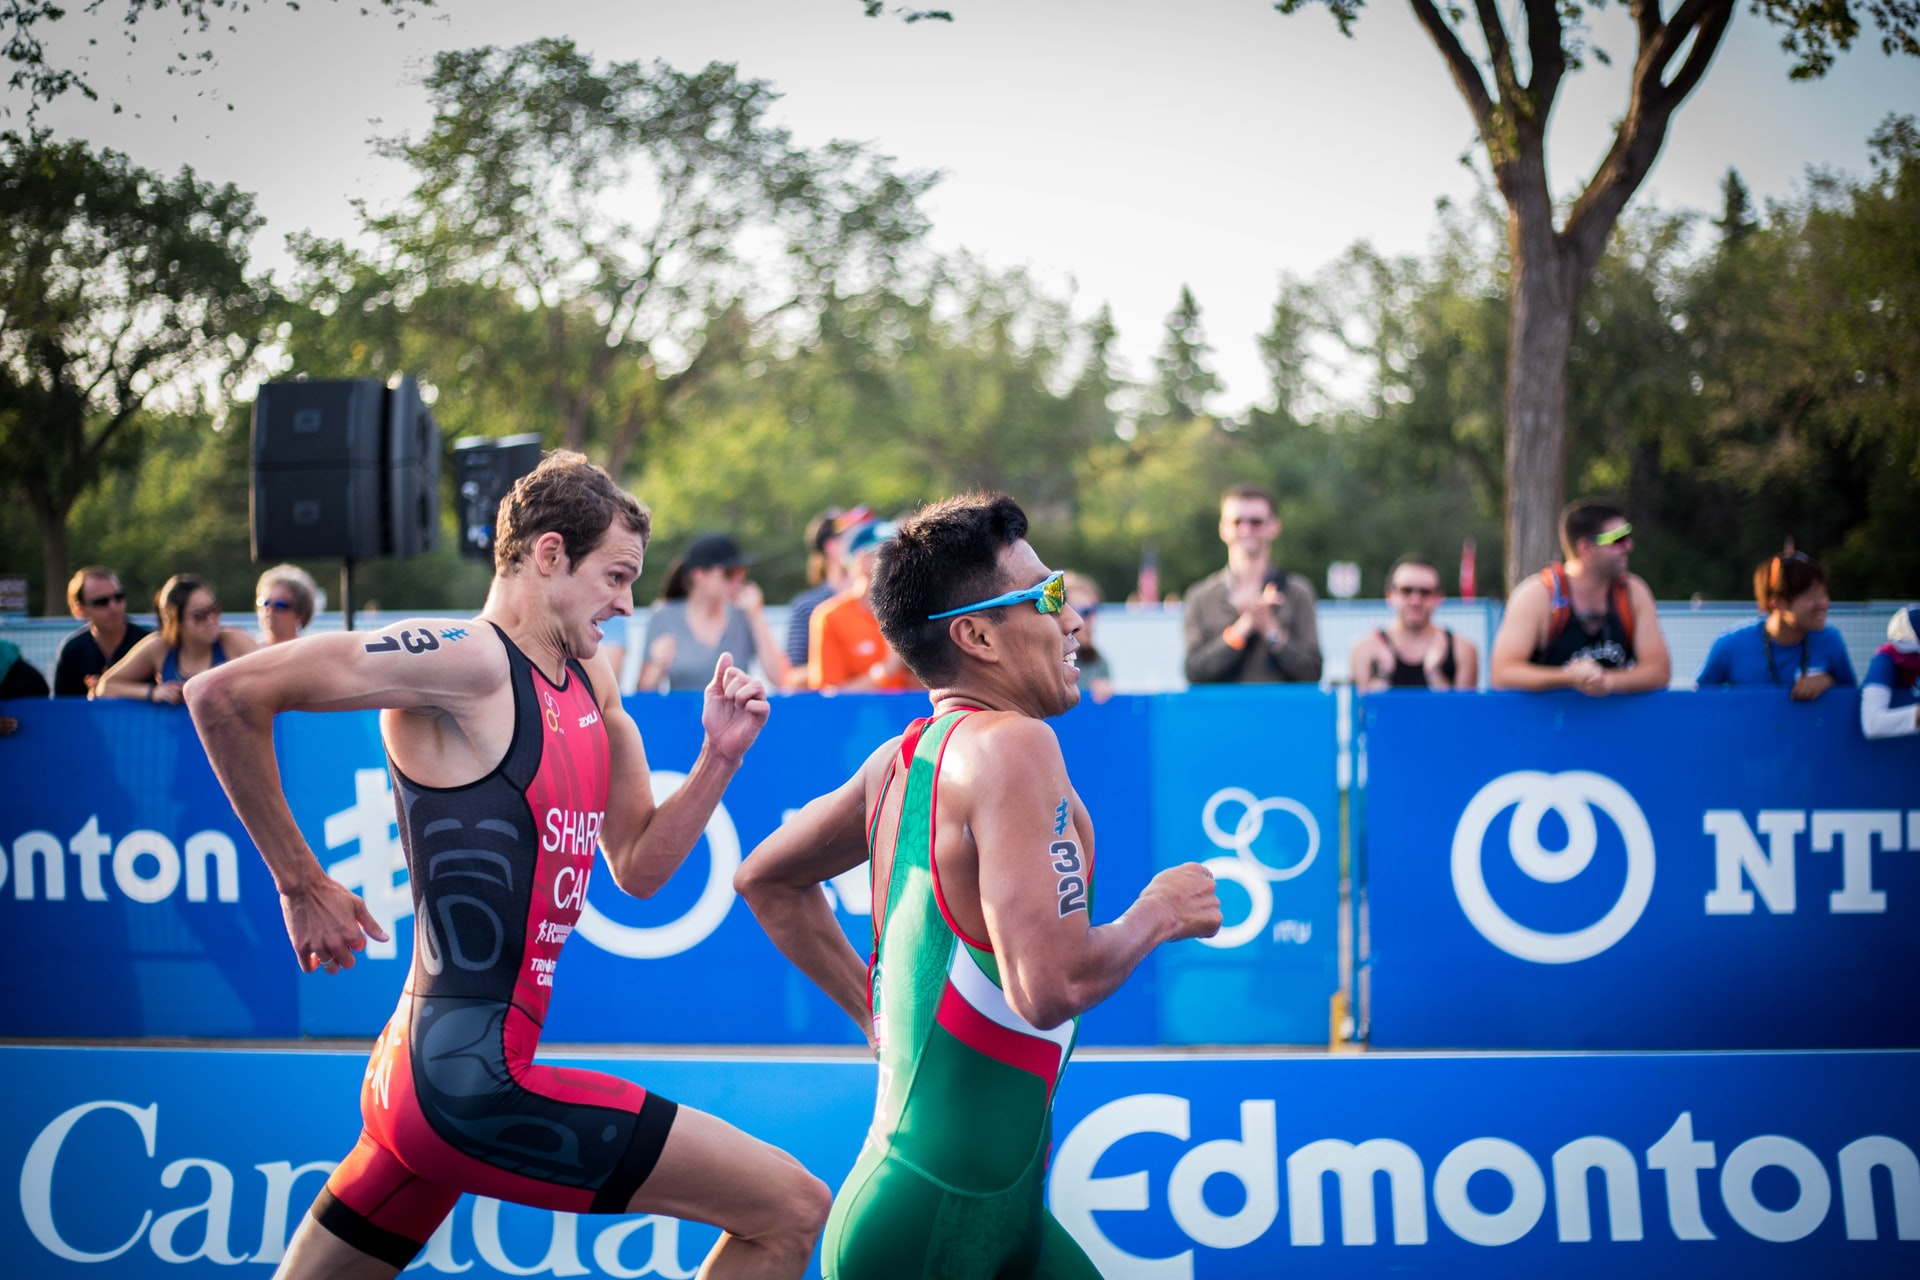
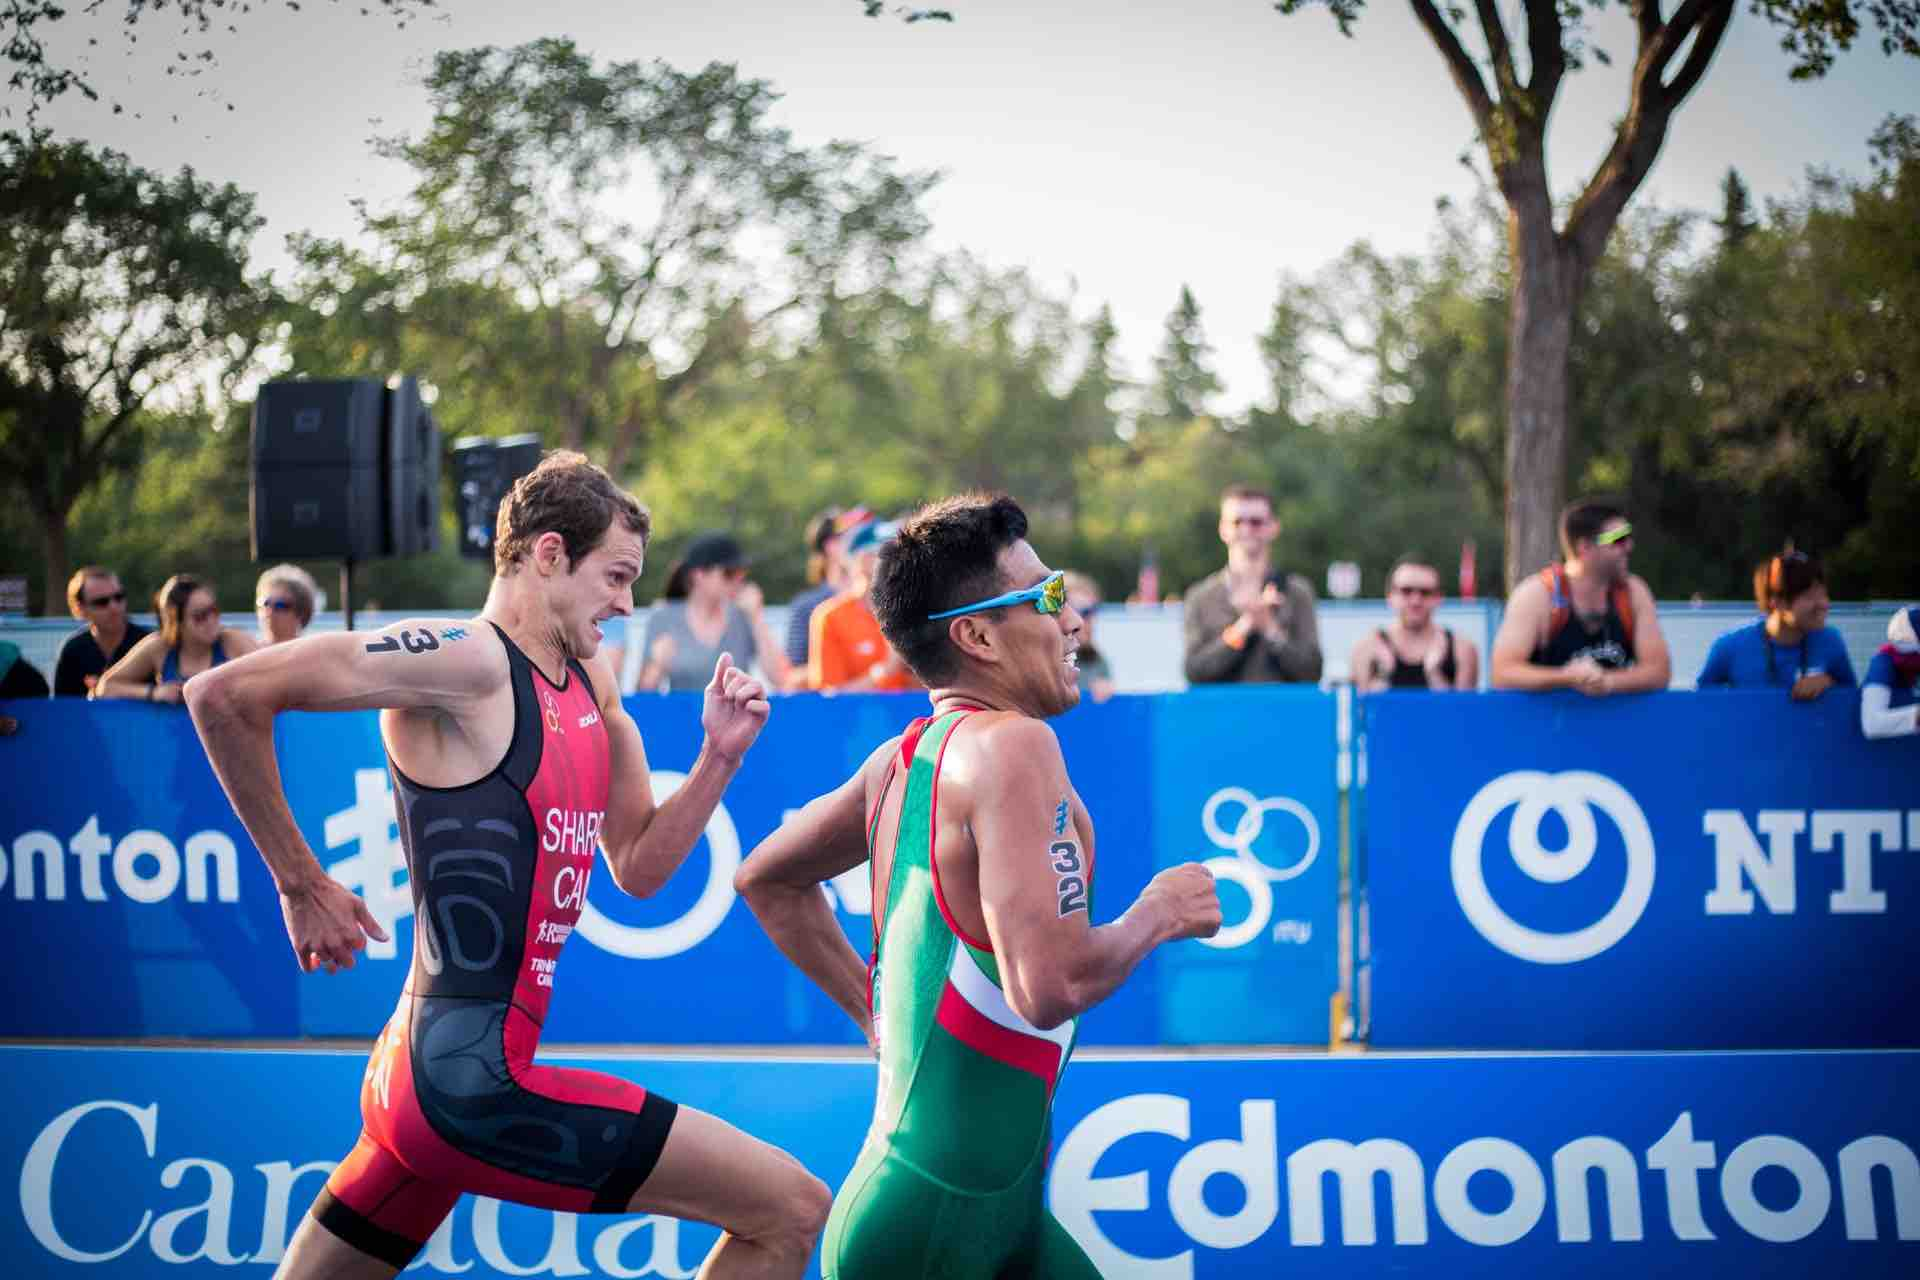
Optimize pictures size

diff --git a/index.html b/index.html
@@ -264,7 +264,7 @@
                     </div>
                 
                     <div class="card">
-                        <img src="imgs/camp_nat_2020.png" class="card-img-top" alt="Camp Natation 2020">
+                        <img src="imgs/camp_nat_2020.jpg" class="card-img-top" alt="Camp Natation 2020">
                         <div class="card-body">
                         <h5 class="card-title">Mini camp de natation</h5>
                         <p class="card-text">
